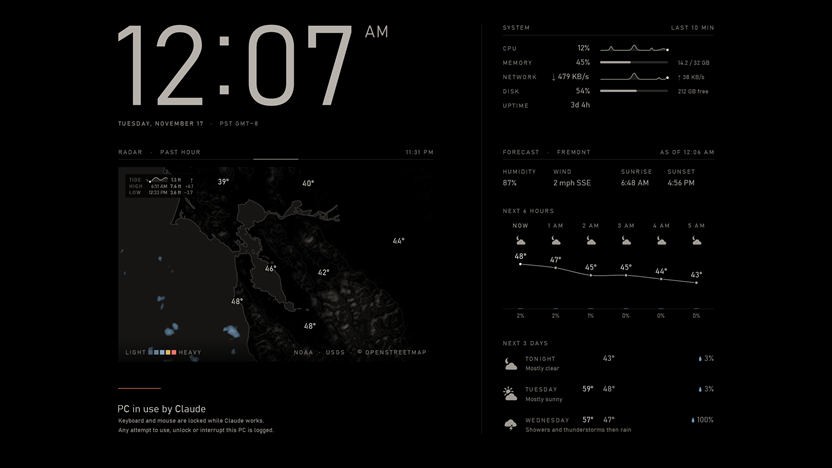
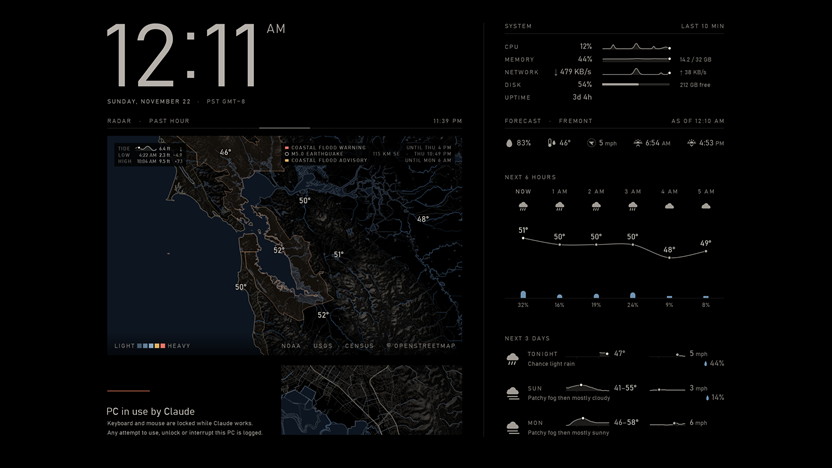
Curtain card: the screenshot with the close-up and the new forecast
The card's screenshot is rendered again from the curtain's current
layout: a close-up of the town's streets under the map, the forecast's
conditions as small symbols with the dew point, and the next three days
as small temperature and wind graphs. The map is in radar mode with no
rain on it. Home is still left off both maps, and the close-up is framed
on the place rounded to 0.1 degree, not on home. The alt text says what
the picture shows.

diff --git a/index.html b/index.html
@@ -140,8 +140,8 @@
             <p class="artifact-tag st-label">Open source tool</p>
             <h3 class="st-h3">Privacy Curtain</h3>
             <figure class="artifact-shot">
-              <a class="shot" href="assets/privacy-curtain.png" data-size="2560x1440" data-caption="Privacy Curtain: the screen at 2560 by 1440, with the Bay Area's weather." data-alt="The Privacy Curtain on a 2560 by 1440 screen: the time and date, a radar map of the San Francisco Bay Area with its hills shaded and contoured, a few light showers off the coast, temperatures around the Bay and a tide table in the corner, the message &ldquo;PC in use by Claude&rdquo;, ten-minute CPU and network graphs, memory and disk bars, and the forecast with humidity, wind, sunrise and sunset, the next six hours and the next three days.">
-                <img src="assets/privacy-curtain-thumb.png" width="832" height="468" loading="lazy" decoding="async" alt="The Privacy Curtain on a widescreen monitor: a large clock, a radar map of the San Francisco Bay Area over shaded hills, with temperatures and a tide table, and the message &ldquo;PC in use by Claude&rdquo; on the left; live system stats and the forecast on the right."><span class="visually-hidden"> Opens a larger view.</span>
+              <a class="shot" href="assets/privacy-curtain.png" data-size="2560x1440" data-caption="Privacy Curtain: the screen at 2560 by 1440, with the Bay Area's weather." data-alt="The Privacy Curtain on a 2560 by 1440 screen: the time and date; a radar map of the San Francisco Bay Area with its hills shaded and contoured and no rain on it, temperatures around the Bay, a tide table in one corner and the weather alerts in the other; the message &ldquo;PC in use by Claude&rdquo; beside a close-up of the town's streets; ten-minute CPU and network graphs, memory and disk bars; and the forecast: the conditions now as small symbols (humidity, dew point, wind, sunrise and sunset), the next six hours, and the next three days as small temperature and wind graphs.">
+                <img src="assets/privacy-curtain-thumb.png" width="832" height="468" loading="lazy" decoding="async" alt="The Privacy Curtain on a widescreen monitor: a large clock, a radar map of the San Francisco Bay Area over shaded hills with temperatures and a tide table, and under it the message &ldquo;PC in use by Claude&rdquo; and a close-up of the town's streets on the left; live system stats and the forecast on the right."><span class="visually-hidden"> Opens a larger view.</span>
               </a>
               <figcaption class="st-small">Rendered by the curtain's own preview mode, since the real one hides from screenshots.</figcaption>
             </figure>
